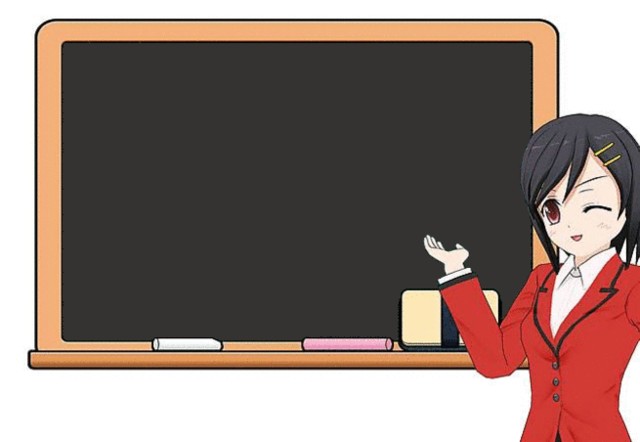
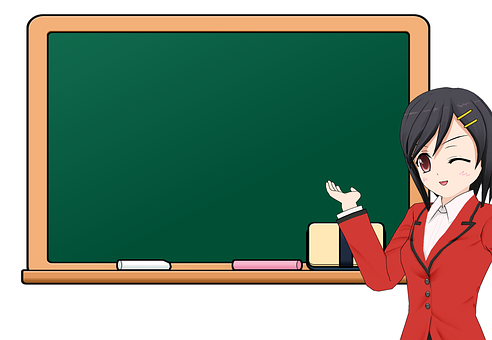
use a better image and coloing for gifmaze and cftp

diff --git a/src/gifmaze/example_embed_background_image.py b/src/gifmaze/example_embed_background_image.py
@@ -10,9 +10,9 @@ from algorithms import wilson, bfs
 
 # create a GIFSurface instance and set the colors
 surface = gm.GIFSurface.from_image('./resources/bg.png')
-palette = [52, 51, 50,     # wall color, the same with the blackboard's
+palette = [38, 92, 66,     # wall color, the same with the blackboard's
            200, 200, 200,  # tree color
-           255, 0, 255]    # path color
+           244, 25, 220]   # path color
 
 for i in range(256):
     rgb = hls_to_rgb((i / 360.0) % 1, 0.5, 1.0)
@@ -22,8 +22,8 @@ surface.set_palette(palette)
 
 # create a maze instance and set its position in the image
 size = (surface.width, surface.height)
-mask = generate_text_mask(size, 'UST', './resources/ubuntu.ttf', 350)
-maze = gm.Maze(111, 67, mask=mask).scale(4).translate((75, 56))
+mask = generate_text_mask(size, 'UST', './resources/ubuntu.ttf', 300)
+maze = gm.Maze(119, 75, mask=mask).scale(3).translate((50, 35))
 
 # create an animation environment
 anim = gm.Animation(surface)
@@ -33,7 +33,7 @@ anim = gm.Animation(surface)
 anim.pause(100, trans_index=1)
 
 # paint the background region that contains the maze
-left, top, width, height = 70, 50, 450, 280
+left, top, width, height = 48, 33, 360, 230, 
 anim.paint(left, top, width, height, 0)
 anim.pause(100)
 

diff --git a/src/penrose/penrose_debruijn.py b/src/penrose/penrose_debruijn.py
@@ -9,6 +9,18 @@ Reference:
     "Algebraic theory of Penrose's non-periodic tilings of the plane".
                                                      N.G. de Bruijn.
 
+Usage:
+    Firstly run
+        
+        python penrose_debruijn.py
+
+    This will output a .png image of a generalized Penrose tiling
+    rendered by cairo and a POV-Ray include file "rhombus.inc" that
+    contains the data of the rhombus, then go to the folder "/povray"
+    and run the file "scene.pov" with POV-Ray, for example in command line:
+
+    povray scene.pov +W800 +H600 +Q11 +A0.001 +R5
+
 Each time you run this script it outputs a different pattern,
 these patterns are almost surely not isomorphic with each other.
 """

diff --git a/src/cftp/main.py b/src/cftp/main.py
@@ -4,16 +4,19 @@
 Draw a Random Lozenge Tiling Generated by CFTP with Cairo
 ~~~~~~~~~~~~~~~~~~~~~~~~~~~~~~~~~~~~~~~~~~~~~~~~~~~~~~~~~
 
-Usage:
-    python main.py
+Usage:  python main.py
+    
+By default this will sample a random lozenge tiling of a
+20x20x20 hexagon from the uniform distribution.
+
 """
 import cairocffi as cairo
 from cftp import LozengeTiling, run_cftp
 
 
-TOP_COLOR = (1, 0, 0)
-LEFT_COLOR = (0, 1, 1)
-RIGHT_COLOR = (0.75, 0.5, 0.25)
+TOP_COLOR = (0.89, 0.1, 0.11)
+LEFT_COLOR = (1, 0.5, 0)
+RIGHT_COLOR = (0.21, 0.5, 0.7)
 EDGE_COLOR = (0, 0, 0)
 LINE_WIDTH = 0.12
 HALFSQRT3 = 0.5 * 3**0.5
